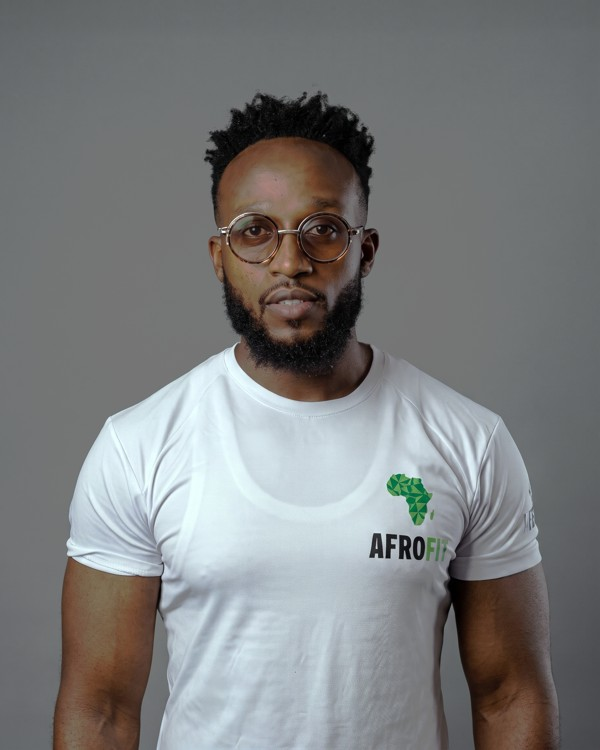
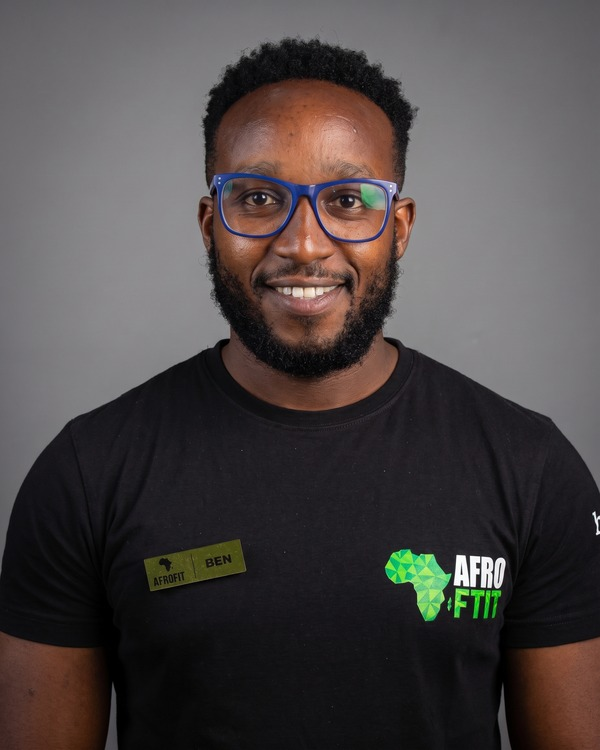
DC newsletter team: AI-aligned set (Higgsfield) — Kjellan/Ben/Vivian, same studio shoot, uniforms + name tags, Lynne replaced by Vivian

diff --git a/delta.html b/delta.html
@@ -86,7 +86,7 @@
               <tbody>
                 <tr>
                   <td style="padding: 24px 0 0 0;">
-                    <img alt="This Is The Place. It all starts with movement." src="https://raw.githubusercontent.com/dionkiarie-dotcom/afrofit-newsletter-assets/main/hero-this-is-the-place.jpg" style="display: block; width: 100%; max-width: 640px; height: auto; border: 0;" width="640">
+                    <img alt="This Is The Place. It all starts with movement." src="img/hero-this-is-the-place.jpg" style="display: block; width: 100%; max-width: 640px; height: auto; border: 0;" width="640">
                   </td>
                 </tr>
               </tbody>
@@ -165,7 +165,7 @@
                         </tr>
                       </tbody>
                     </table>
-                    <img alt="Strength is the body you keep" src="https://raw.githubusercontent.com/dionkiarie-dotcom/afrofit-newsletter-assets/main/g-strength.jpg" style="display: block; width: 100%; max-width: 640px; height: auto; margin: 0 0 28px 0; border: 0;" width="640">
+                    <img alt="Strength is the body you keep" src="img/g-strength.jpg" style="display: block; width: 100%; max-width: 640px; height: auto; margin: 0 0 28px 0; border: 0;" width="640">
                     <p style="font-family: -apple-system, BlinkMacSystemFont, 'Segoe UI', Roboto, 'Helvetica Neue', sans-serif; font-weight: 400; font-size: 17px; line-height: 1.65; color: #FFFFFF; letter-spacing: 0.01em; margin: 0 0 20px 0;">
                       Grip strength is the closest thing we have to a longevity dial. Not because your hands matter most, but because they read the strength of the whole body.
                     </p>
@@ -205,7 +205,7 @@
                     <h2 class="h-section" style="font-family: 'Oswald', 'Helvetica Neue Condensed', 'Roboto Condensed', sans-serif; font-weight: 700; font-size: 48px; line-height: 1.0; color: #FFFFFF; text-transform: uppercase; margin: 0 0 24px 0;">
                       AFROBEATS
                     </h2>
-                    <img alt="AFROBEATS, the dance floor in full motion" src="https://raw.githubusercontent.com/dionkiarie-dotcom/afrofit-newsletter-assets/main/f-dc-02.jpg" style="display: block; width: 100%; max-width: 640px; height: auto; margin: 0 0 28px 0; border: 0;" width="640">
+                    <img alt="AFROBEATS, the dance floor in full motion" src="img/f-dc-02.jpg" style="display: block; width: 100%; max-width: 640px; height: auto; margin: 0 0 28px 0; border: 0;" width="640">
                     <p style="font-family: -apple-system, BlinkMacSystemFont, 'Segoe UI', Roboto, 'Helvetica Neue', sans-serif; font-weight: 400; font-size: 17px; line-height: 1.65; color: #FFFFFF; letter-spacing: 0.01em; margin: 0 0 20px 0;">
                       AFROBEATS is our dance-floor class: Afrobeats, amapiano and high-energy choreography that turns a workout into the best part of your day.
                     </p>
@@ -246,7 +246,7 @@
                     <h2 class="h-section" style="font-family: 'Oswald', 'Helvetica Neue Condensed', 'Roboto Condensed', sans-serif; font-weight: 700; font-size: 48px; line-height: 1.0; color: #FFFFFF; text-transform: uppercase; margin: 0 0 32px 0;">
                       The back you carry all day
                     </h2>
-                    <img alt="A back that has to last" src="https://raw.githubusercontent.com/dionkiarie-dotcom/afrofit-newsletter-assets/main/g-out.jpg" style="display: block; width: 100%; max-width: 640px; height: auto; margin: 0 0 28px 0; border: 0;" width="640">
+                    <img alt="A back that has to last" src="img/g-out.jpg" style="display: block; width: 100%; max-width: 640px; height: auto; margin: 0 0 28px 0; border: 0;" width="640">
                     <p style="font-family: -apple-system, BlinkMacSystemFont, 'Segoe UI', Roboto, 'Helvetica Neue', sans-serif; font-weight: 400; font-size: 17px; line-height: 1.65; color: #FFFFFF; letter-spacing: 0.01em; margin: 0 0 20px 0;">
                       Most back pain is not a single injury. It is a pattern. Roughly seven in ten people who recover from a bout of low back pain have another within the year.
                     </p>
@@ -402,7 +402,7 @@
                       <tbody>
                         <tr>
                           <td class="team-cell" style="padding: 0 8px 32px 0;" valign="top" width="33.33%">
-                            <img alt="Kjellan" height="300" src="https://storage.mlcdn.com/account_image/2362136/gcTyz3bdr4Rk5iebOk8agpIQo7mL3ChKMqAU1jFZ.jpg" style="display: block; width: 100%; max-width: 240px; height: auto; margin: 0 auto 12px auto; border: 0;" width="240">
+                            <img alt="Kjellan" height="300" src="https://raw.githubusercontent.com/dionkiarie-dotcom/afrofit-newsletter-assets/main/team-kjellan.jpg" style="display: block; width: 100%; max-width: 240px; height: auto; margin: 0 auto 12px auto; border: 0;" width="240">
                             <p style="font-family: 'Oswald', 'Helvetica Neue Condensed', 'Roboto Condensed', sans-serif; font-weight: 700; font-size: 20px; color: #FFFFFF; text-align: center; text-transform: uppercase; margin: 0 0 4px 0;">Kjellan</p>
                             <p style="font-family: 'Oswald', 'Helvetica Neue Condensed', 'Roboto Condensed', sans-serif; font-weight: 500; font-size: 11px; letter-spacing: 0.16em; color: #A0A0A0; text-align: center; text-transform: uppercase; margin: 0 0 8px 0;">General Manager</p>
                             <p style="text-align: center; margin: 0;"><a href="https://instagram.com/afrofit.life" style="font-family: 'Oswald', 'Helvetica Neue Condensed', 'Roboto Condensed', sans-serif; font-weight: 600; font-size: 11px; letter-spacing: 0.18em; color: #01D923; text-decoration: none; text-transform: uppercase;" data-link-id="188178859426841642">@afrofit.life</a></p>
@@ -414,9 +414,9 @@
                             <p style="text-align: center; margin: 0;"><a href="https://instagram.com/afrofit.life" style="font-family: 'Oswald', 'Helvetica Neue Condensed', 'Roboto Condensed', sans-serif; font-weight: 600; font-size: 11px; letter-spacing: 0.18em; color: #01D923; text-decoration: none; text-transform: uppercase;" data-link-id="188178859432084523">@afrofit.life</a></p>
                           </td>
                           <td class="team-cell" style="padding: 0 0 32px 8px;" valign="top" width="33.33%">
-                            <img alt="Lynne" height="300" src="https://storage.mlcdn.com/account_image/2362136/V5py6wlYymF5ldCK73ea9VWx0S8i8YDS7lVFvqI4.jpg" style="display: block; width: 100%; max-width: 240px; height: auto; margin: 0 auto 12px auto; border: 0;" width="240">
-                            <p style="font-family: 'Oswald', 'Helvetica Neue Condensed', 'Roboto Condensed', sans-serif; font-weight: 700; font-size: 20px; color: #FFFFFF; text-align: center; text-transform: uppercase; margin: 0 0 4px 0;">Lynne</p>
-                            <p style="font-family: 'Oswald', 'Helvetica Neue Condensed', 'Roboto Condensed', sans-serif; font-weight: 500; font-size: 11px; letter-spacing: 0.16em; color: #A0A0A0; text-align: center; text-transform: uppercase; margin: 0 0 8px 0;">Floor Trainer</p>
+                            <img alt="Vivian" height="300" src="https://raw.githubusercontent.com/dionkiarie-dotcom/afrofit-newsletter-assets/main/team-vivian.jpg" style="display: block; width: 100%; max-width: 240px; height: auto; margin: 0 auto 12px auto; border: 0;" width="240">
+                            <p style="font-family: 'Oswald', 'Helvetica Neue Condensed', 'Roboto Condensed', sans-serif; font-weight: 700; font-size: 20px; color: #FFFFFF; text-align: center; text-transform: uppercase; margin: 0 0 4px 0;">Vivian</p>
+                            <p style="font-family: 'Oswald', 'Helvetica Neue Condensed', 'Roboto Condensed', sans-serif; font-weight: 500; font-size: 11px; letter-spacing: 0.16em; color: #A0A0A0; text-align: center; text-transform: uppercase; margin: 0 0 8px 0;">Membership Sales</p>
                             <p style="text-align: center; margin: 0;"><a href="https://instagram.com/afrofit.life" style="font-family: 'Oswald', 'Helvetica Neue Condensed', 'Roboto Condensed', sans-serif; font-weight: 600; font-size: 11px; letter-spacing: 0.18em; color: #01D923; text-decoration: none; text-transform: uppercase;" data-link-id="188178859439424556">@afrofit.life</a></p>
                           </td>
                         </tr>